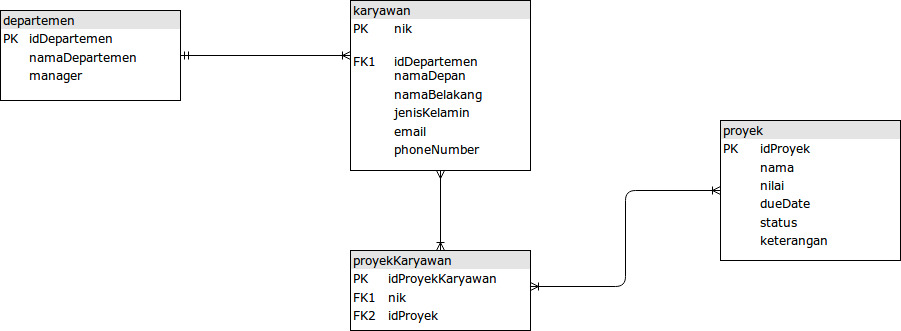
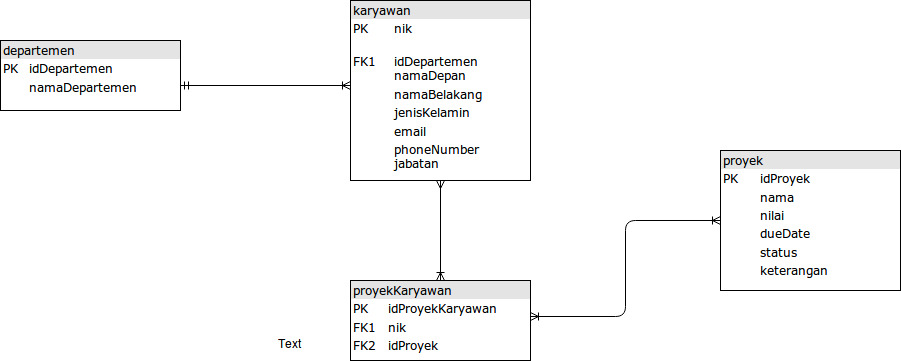
DONE PLUS QUERY DB

diff --git a/company.md b/company.md
@@ -1,0 +1,54 @@
+CREATE TABLE departemen (
+idDepartemen INTEGER NOT NULL PRIMARY KEY,
+namaDepartemen TEXT NOT NULL);
+
+INSERT INTO departemen VALUES (1,'Dep. MDSI');
+INSERT INTO departemen VALUES (2,'Dep. PPTI');
+INSERT INTO departemen VALUES (3,'Dep. MSK');
+INSERT INTO departemen VALUES (4,'Dep. DIKLAT');
+INSERT INTO departemen VALUES (5,'Dep. PAM');
+
+CREATE TABLE karyawan (
+nik INTEGER NOT NULL PRIMARY KEY,
+idDepartemen INTEGER NOT NULL,
+namaDepan TEXT NOT NULL,
+namaBelakang TEXT NOT NULL,
+jenisKelamin TEXT NOT NULL,
+email TEXT NOT NULL,
+phoneNumber TEXT NOT NULL,
+jabatan TEXT NOT NULL,
+FOREIGN KEY(idDepartemen) REFERENCES departemen(idDepartemen));
+
+INSERT INTO karyawan VALUES (05606,1,'Eki','Fakhrureza','L','ekifakhrureza@gmail.com','087874957002','SAP ABAP');
+INSERT INTO karyawan VALUES (05777,1,'Agung','Prabowo','L','agungp@gmail.com','08234242422','SAP BASIS');
+INSERT INTO karyawan VALUES (05888,3,'Ahmad','Yusuf','L','yusuf@gmail.com','0856023232','Network Engineer');
+INSERT INTO karyawan VALUES (05444,2,'Putra','Janitra','L','putra@gmail.com','08133399888','Web Programmer');
+INSERT INTO karyawan VALUES (05119,4,'Fitri','Ramadhani','P','fitri@gmail.com','0813377447','Ahli Madya Diklat');
+
+
+CREATE TABLE proyek (
+idProyek INTEGER NOT NULL PRIMARY KEY,
+nama TEXT NOT NULL,
+nilai TEXT NOT NULL,
+dueDate TEXT NOT NULL,
+status TEXT NOT NULL,
+keterangan TEXT);
+
+INSERT INTO proyek VALUES (1,'EIS','200000000','2018-06-10','ON PROGRESS','Semangat');
+INSERT INTO proyek VALUES (2,'HRIS','100000000','2017-12-12','DONE','Selamat');
+INSERT INTO proyek VALUES (3,'Cuti Online Mobile App','150000000','2018-10-15','ON PROGRESS','Caiyo');
+INSERT INTO proyek VALUES (4,'Koperasi Apps','125000000','2018-07-06','ON PROGRESS','Ganbatte');
+INSERT INTO proyek VALUES (5,'SPPD Mobile Apps','225000000','2018-12-09','ON PROGRESS','Fokus');
+
+CREATE TABLE proyekKaryawan(
+idProyekKaryawan INTEGER NOT NULL PRIMARY KEY,
+nik INTEGER NOT NULL,
+idProyek INTEGER NOT NULL,
+FOREIGN KEY(nik) REFERENCES karyawan(nik),
+FOREIGN KEY(idProyek) REFERENCES proyek(idProyek));
+
+INSERT INTO proyekKaryawan VALUES(1,05606,1);
+INSERT INTO proyekKaryawan VALUES(2,05606,2);
+INSERT INTO proyekKaryawan VALUES(3,05777,2);
+INSERT INTO proyekKaryawan VALUES(4,05444,3);
+INSERT INTO proyekKaryawan VALUES(5,05888,4);
